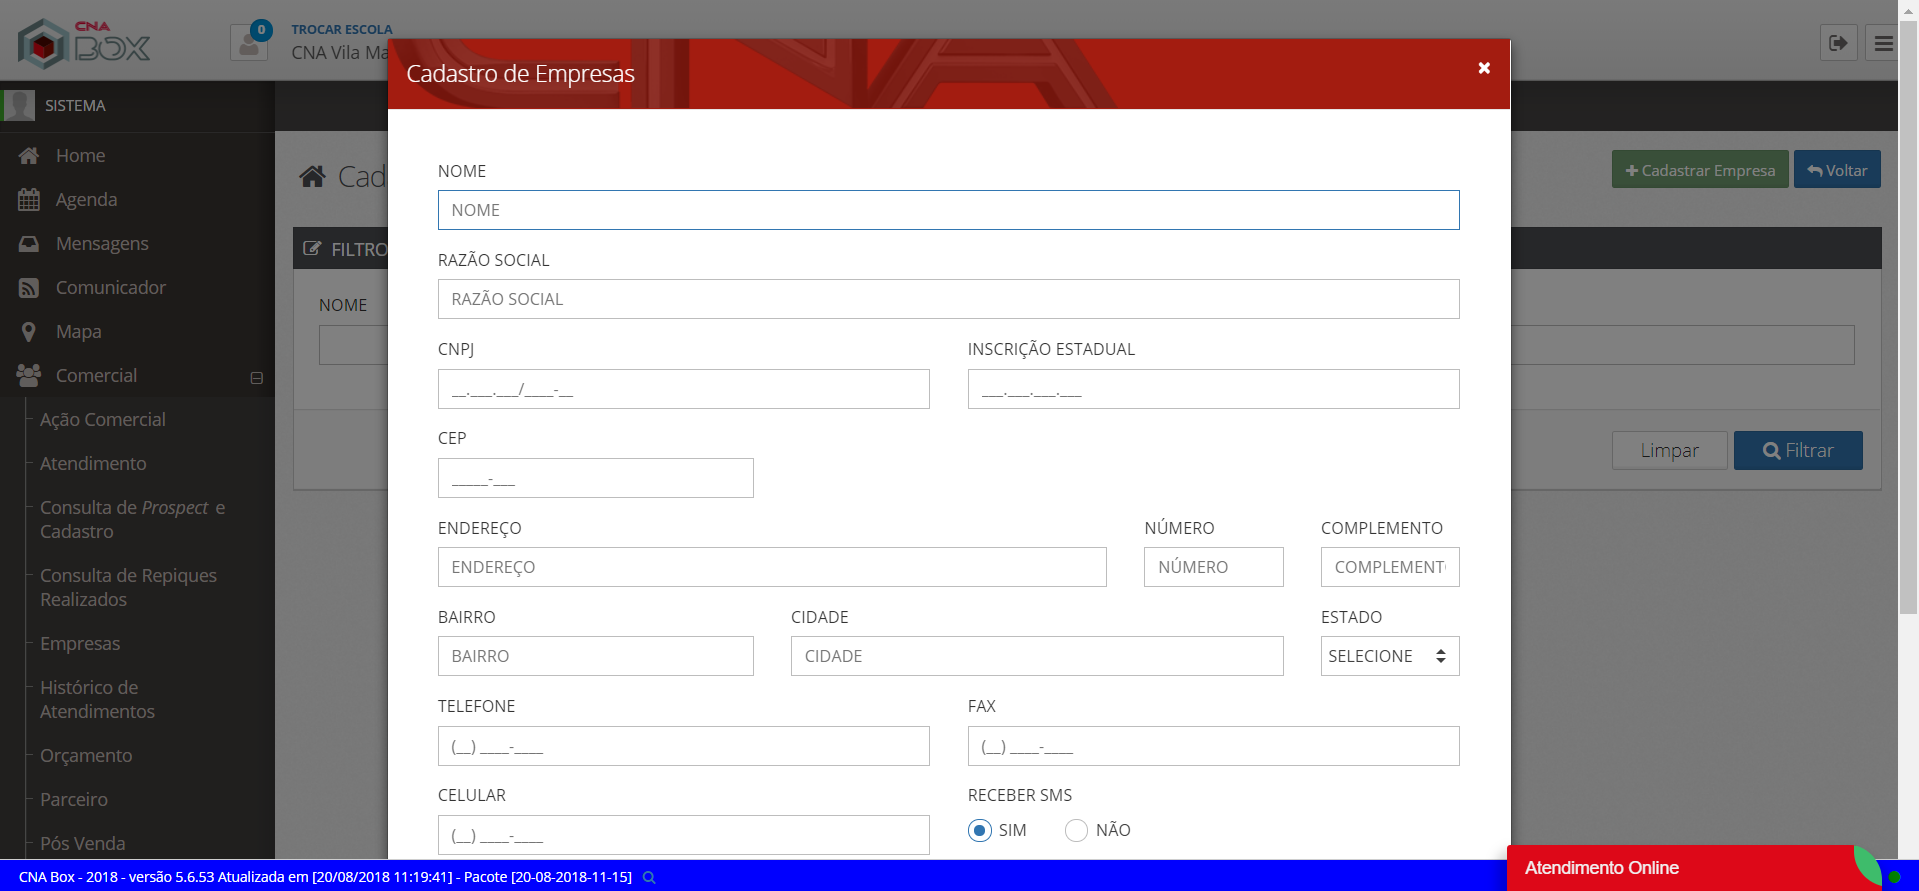
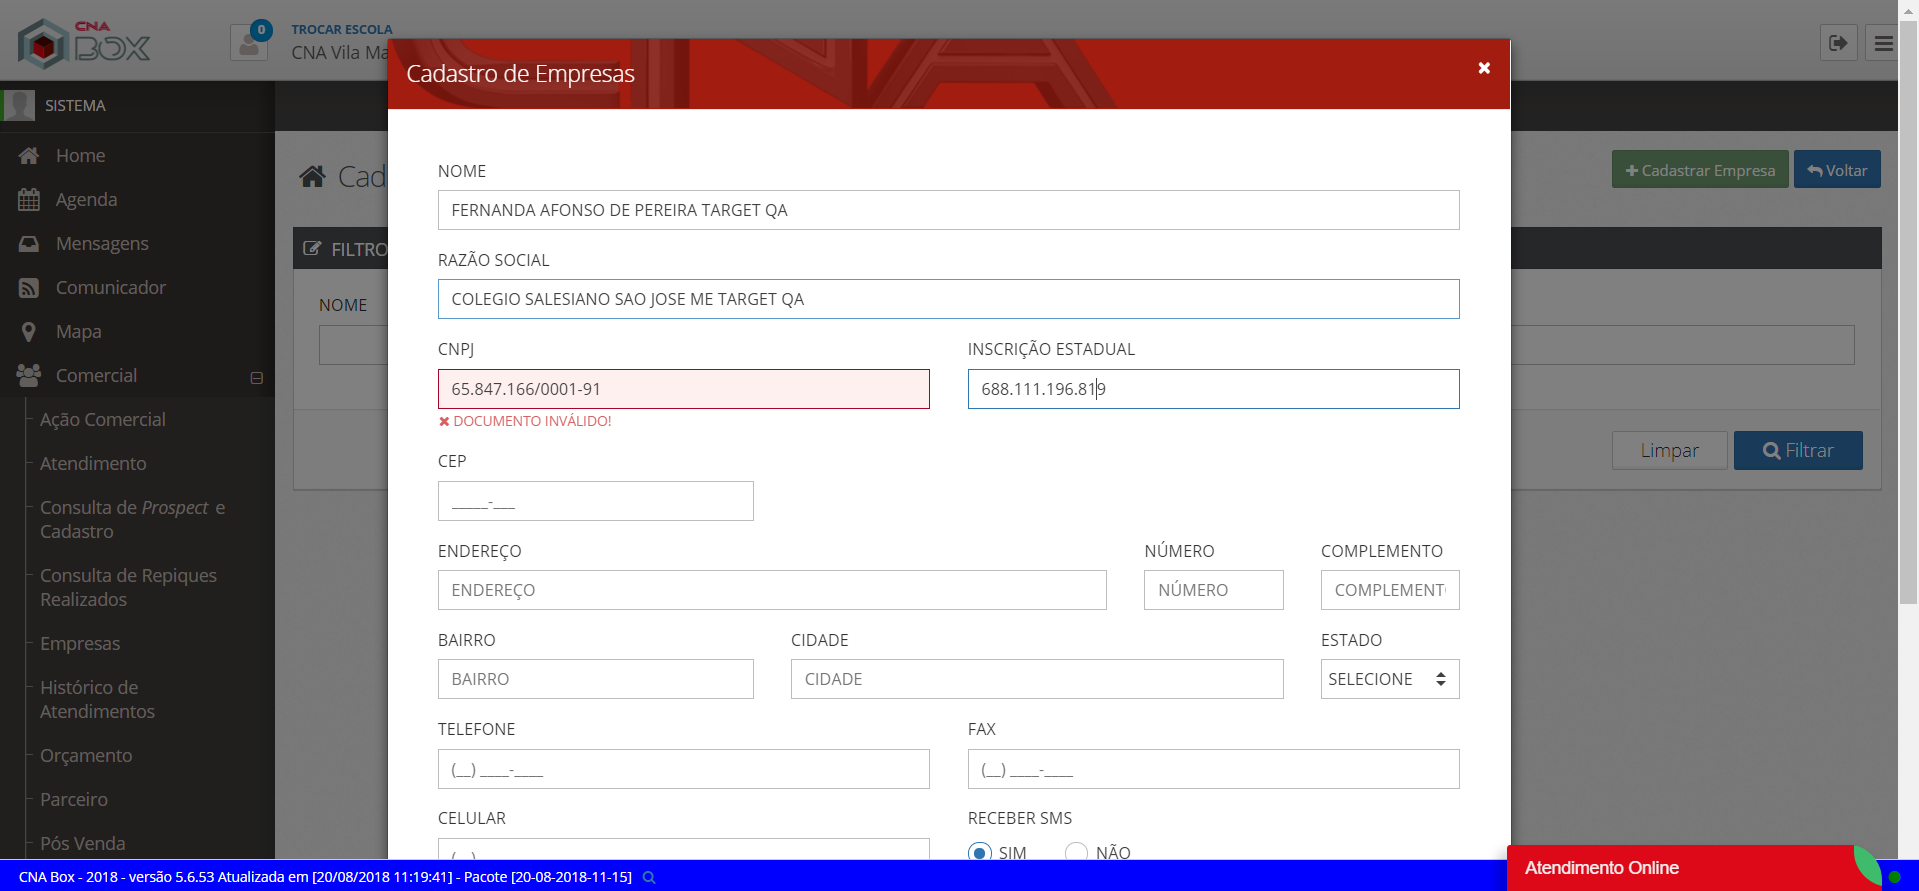
comitt

diff --git a/src/test/java/qa/cnabox/page/MenuComerEmpresasCadastrPage.java b/src/test/java/qa/cnabox/page/MenuComerEmpresasCadastrPage.java
@@ -35,7 +35,7 @@ public class MenuComerEmpresasCadastrPage extends BasePage {
 	 
 		clicarBotaoBy(By.cssSelector("#PessoaEscola_Nome"));
 		Thread.sleep(1000);
-		escreveTexto(By.cssSelector("PessoaEscola_Nome"), geraNomeAleatorio());
+		escreveTexto(By.cssSelector("#PessoaEscola_Nome"), geraNomeAleatorio());
 }
 
 	public void SetescreverRazao () throws InterruptedException {
@@ -46,6 +46,8 @@ public class MenuComerEmpresasCadastrPage extends BasePage {
 	}
 
 	public void SetescreverCNPJ () throws InterruptedException {
+		
+		
 		
 		escreveId("PessoaEscola_CPF_CNPJ", gerarcnpj(true));
 		Thread.sleep(1000);

diff --git a/src/test/java/qa/cnabox/tests/MenuComercialEmpresasCadTeste.java b/src/test/java/qa/cnabox/tests/MenuComercialEmpresasCadTeste.java
@@ -15,10 +15,15 @@ public class MenuComercialEmpresasCadTeste extends BaseTest {
 	public void DeveCadastrarNovaEmpresa () throws InterruptedException {
 		
 		page.SetclicarMenuComercial();
+		page.esperaCarregar(2000);
 		page.SetClicarEmpresas();
+		page.esperaCarregar(2000);
 		page.SetClicarNovaEmpresa();
+		page.esperaCarregar(2000);
 		page.SetescreverNome();
+		page.esperaCarregar(2000);
 		page.SetescreverRazao();
+		page.esperaCarregar(2000);
 		page.SetescreverCNPJ();
 		page.SetInscricaoEstadual("968.811.119.681");
 		
